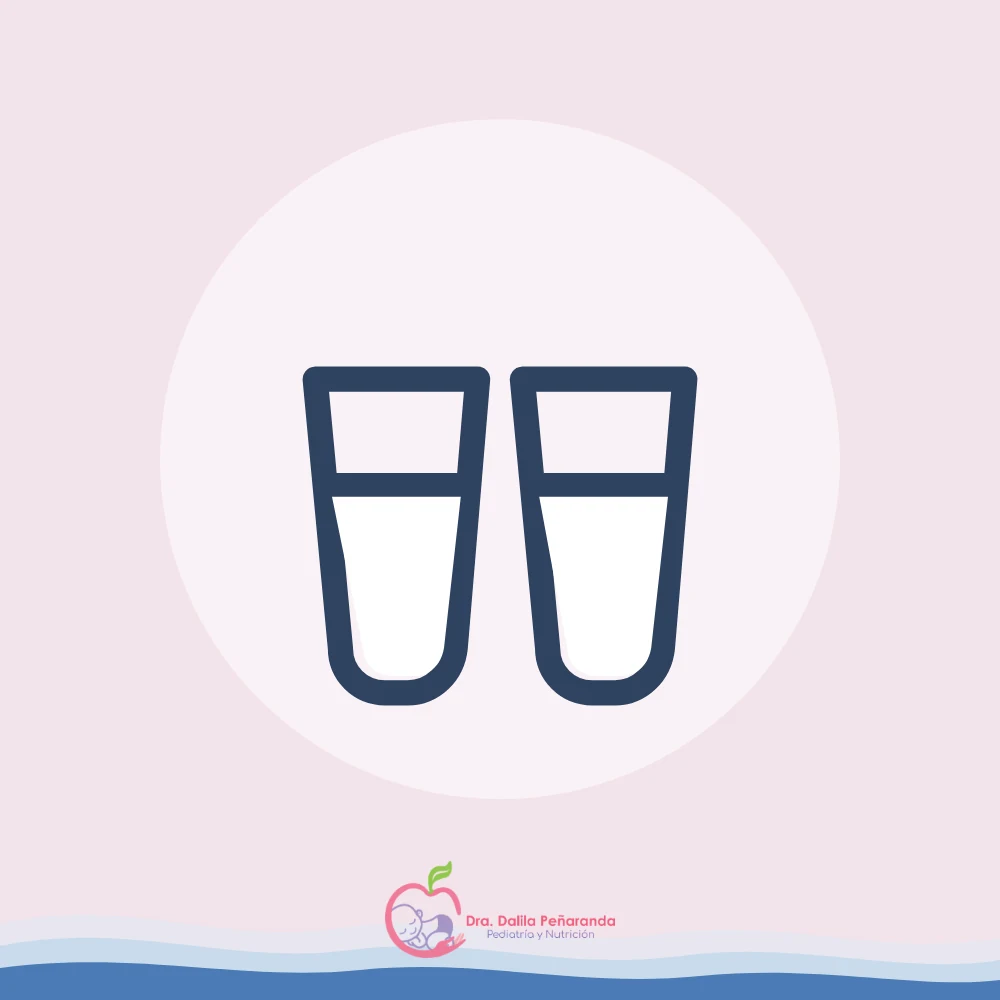
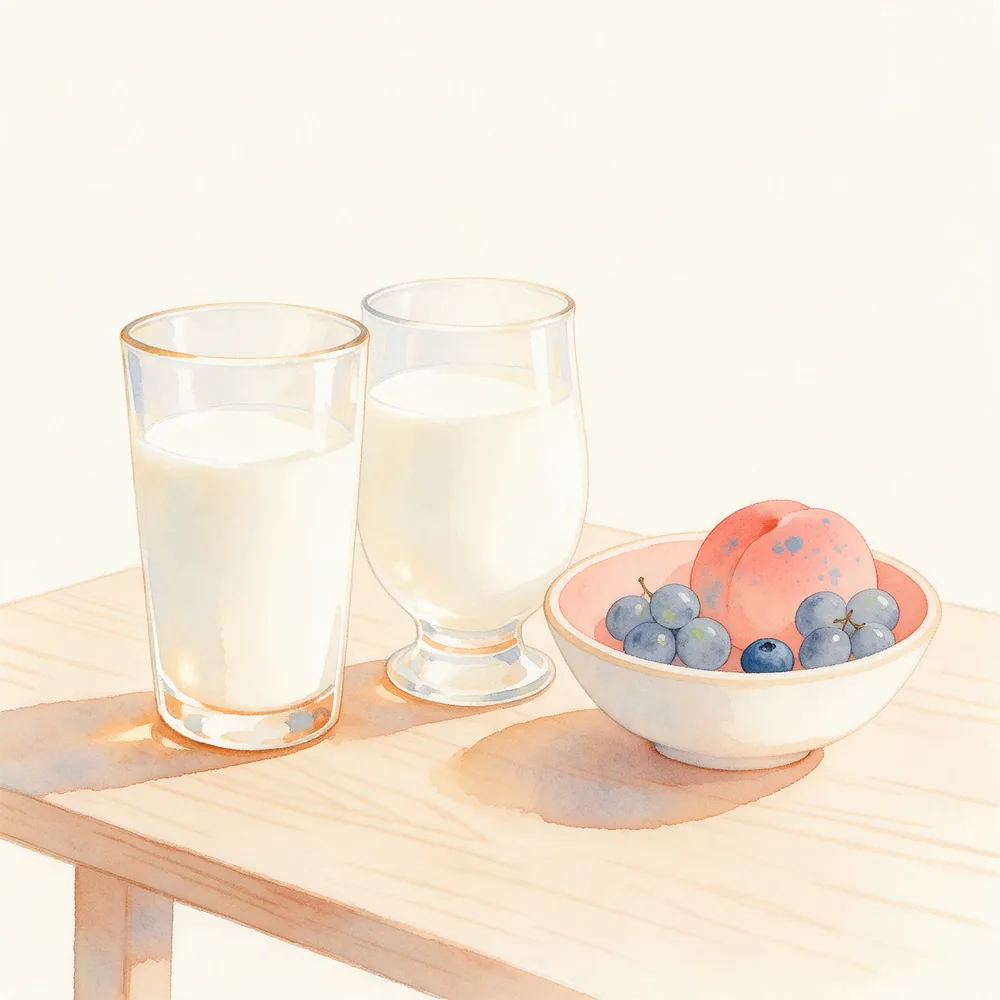
Cambia las portadas de los artículos por ilustraciones en acuarela
Las portadas dibujadas a línea quedaban demasiado básicas al lado de las
piezas de la doctora. Las ocho se rehicieron como acuarelas: la jeringa de
suero sobre las toallas, el niño apretándose la nariz, una madre calmando a
un bebé que llora, el niño dormido con la luna en la ventana, el paño tibio
sobre el oído de noche, el inhalador con su inhalocámara, el niño solo en las
escaleras del colegio y los dos vasos de leche.

Quedan en el mismo idioma del sitio: azul polvo, crema, coral y verde salvia,
con la textura del papel a la vista, que es de donde salen también la ballena
y la tortuga de las franjas.

Pesan 365 KB las ocho, a 1000x1000. Los textos alternativos ahora describen la
acuarela y no el icono anterior. El generador de SVG se retira y en su lugar
queda herramientas/portadas.md, con el modelo y los prompts por si hay que
rehacer alguna.

Claude-Session: https://claude.ai/code/session_01FHjbgYbvwyauAhAEVwTY6z

diff --git a/docs/blog.html b/docs/blog.html
@@ -329,7 +329,7 @@
         </div>
       </article>
       <article class="articulo reveal" data-cat="salud">
-        <img src="assets/img/posts/portada-lavado-nasal.webp" alt="Ilustración de una jeringa de suero fisiológico con gotas" width="1000" height="1000" loading="lazy">
+        <img src="assets/img/posts/portada-lavado-nasal.webp" alt="Ilustración en acuarela de una jeringa y un frasco de suero fisiológico sobre toallas dobladas" width="1000" height="1000" loading="lazy">
         <div class="articulo__cuerpo">
           <span class="chip chip--rosa">salud</span>
           <h3>Lavado nasal sin lágrimas</h3>
@@ -339,7 +339,7 @@
         </div>
       </article>
       <article class="articulo reveal" data-delay="1" data-cat="salud">
-        <img src="assets/img/posts/portada-sangrado-nariz.webp" alt="Ilustración de una gota de sangre junto a un cronómetro" width="1000" height="1000" loading="lazy">
+        <img src="assets/img/posts/portada-sangrado-nariz.webp" alt="Ilustración en acuarela de un niño sentado, inclinado hacia adelante, apretándose la nariz con dos dedos" width="1000" height="1000" loading="lazy">
         <div class="articulo__cuerpo">
           <span class="chip chip--rosa">salud</span>
           <h3>Si le sangra la nariz, esto no</h3>
@@ -349,7 +349,7 @@
         </div>
       </article>
       <article class="articulo reveal" data-delay="2" data-cat="salud">
-        <img src="assets/img/posts/portada-espasmo-sollozo.webp" alt="Ilustración de un corazón con la línea del pulso que se interrumpe y vuelve" width="1000" height="1000" loading="lazy">
+        <img src="assets/img/posts/portada-espasmo-sollozo.webp" alt="Ilustración en acuarela de una madre calmando en brazos a un bebé que llora" width="1000" height="1000" loading="lazy">
         <div class="articulo__cuerpo">
           <span class="chip chip--rosa">salud</span>
           <h3>Se puso morado al llorar</h3>
@@ -369,7 +369,7 @@
         </div>
       </article>
       <article class="articulo reveal" data-delay="1" data-cat="crecimiento">
-        <img src="assets/img/posts/portada-ronquido.webp" alt="Ilustración de una almohada con el sonido del ronquido" width="1000" height="1000" loading="lazy">
+        <img src="assets/img/posts/portada-ronquido.webp" alt="Ilustración en acuarela de un niño dormido en su cama, con la luna en la ventana" width="1000" height="1000" loading="lazy">
         <div class="articulo__cuerpo">
           <span class="chip chip--azul">crecimiento</span>
           <h3>El ronquido nunca es normal</h3>
@@ -409,7 +409,7 @@
         </div>
       </article>
       <article class="articulo reveal" data-delay="2" data-cat="nutricion">
-        <img src="assets/img/posts/portada-leche-dos-anios.webp" alt="Ilustración de dos vasos de leche" width="1000" height="1000" loading="lazy">
+        <img src="assets/img/posts/portada-leche-dos-anios.webp" alt="Ilustración en acuarela de dos vasos de leche junto a un bol de fruta" width="1000" height="1000" loading="lazy">
         <div class="articulo__cuerpo">
           <span class="chip chip--verde">nutrición</span>
           <h3>Después de los dos años, ¿qué leche?</h3>
@@ -439,7 +439,7 @@
         </div>
       </article>
       <article class="articulo reveal" data-delay="2" data-cat="salud">
-        <img src="assets/img/posts/portada-dolor-de-oido.webp" alt="Ilustración de un oído junto a una luna" width="1000" height="1000" loading="lazy">
+        <img src="assets/img/posts/portada-dolor-de-oido.webp" alt="Ilustración en acuarela de un niño en la cama de noche con un paño tibio sobre el oído" width="1000" height="1000" loading="lazy">
         <div class="articulo__cuerpo">
           <span class="chip chip--rosa">salud</span>
           <h3>Dolor de oído a medianoche</h3>
@@ -489,7 +489,7 @@
         </div>
       </article>
       <article class="articulo reveal" data-delay="1" data-cat="salud">
-        <img src="assets/img/posts/portada-inhalador.webp" alt="Ilustración de un inhalador con su inhalocámara y mascarilla" width="1000" height="1000" loading="lazy">
+        <img src="assets/img/posts/portada-inhalador.webp" alt="Ilustración en acuarela de un inhalador con su inhalocámara y mascarilla" width="1000" height="1000" loading="lazy">
         <div class="articulo__cuerpo">
           <span class="chip chip--rosa">salud</span>
           <h3>El inhalador: la técnica correcta</h3>
@@ -499,7 +499,7 @@
         </div>
       </article>
       <article class="articulo reveal" data-delay="2" data-cat="crecimiento">
-        <img src="assets/img/posts/portada-bullying.webp" alt="Ilustración de dos globos de diálogo, uno de ellos vacío" width="1000" height="1000" loading="lazy">
+        <img src="assets/img/posts/portada-bullying.webp" alt="Ilustración en acuarela de un niño sentado solo en las escaleras del colegio mientras otros juegan al fondo" width="1000" height="1000" loading="lazy">
         <div class="articulo__cuerpo">
           <span class="chip chip--azul">crecimiento</span>
           <h3>Bullying: las señales que no te cuenta</h3>

diff --git a/docs/blog-sangrado-nariz.html b/docs/blog-sangrado-nariz.html
@@ -17,7 +17,7 @@
 <meta property="og:image" content="https://helgarpalmieri55.github.io/Paginaweb-DraDalila/assets/img/posts/portada-sangrado-nariz.webp">
 <meta property="og:image:width" content="1000">
 <meta property="og:image:height" content="1000">
-<meta property="og:image:alt" content="Ilustración de una gota de sangre junto a un cronómetro">
+<meta property="og:image:alt" content="Ilustración en acuarela de un niño sentado, inclinado hacia adelante, apretándose la nariz con dos dedos">
 <meta property="article:published_time" content="2026-09-17">
 <meta property="article:modified_time" content="2026-09-17">
 <meta property="article:author" content="Dra. Dalila Peñaranda">
@@ -278,7 +278,7 @@
     <hr>
 
     <figure>
-      <img src="assets/img/posts/portada-sangrado-nariz.webp" alt="Ilustración de una gota de sangre junto a un cronómetro" width="1000" height="1000" loading="lazy">
+      <img src="assets/img/posts/portada-sangrado-nariz.webp" alt="Ilustración en acuarela de un niño sentado, inclinado hacia adelante, apretándose la nariz con dos dedos" width="1000" height="1000" loading="lazy">
       <figcaption>Presión en la parte blanda y el reloj a la vista: tres minutos sin soltar.</figcaption>
     </figure>
 
@@ -303,7 +303,7 @@
     <p class="bajada reveal">Otros temas que suelen venir en la misma consulta.</p>
     <div class="rejilla rejilla--3 rejilla--piezas">
       <article class="articulo reveal">
-        <img src="assets/img/posts/portada-lavado-nasal.webp" alt="Ilustración de una jeringa de suero fisiológico con gotas" width="1000" height="1000" loading="lazy">
+        <img src="assets/img/posts/portada-lavado-nasal.webp" alt="Ilustración en acuarela de una jeringa y un frasco de suero fisiológico sobre toallas dobladas" width="1000" height="1000" loading="lazy">
         <div class="articulo__cuerpo"><span class="chip chip--rosa">salud</span><h3>Lavado nasal sin lágrimas</h3><p>Sonarse antes, cabeza abajo y boca abierta.</p><p style="margin-top:12px"><a href="blog-lavado-nasal.html">Leer más →</a></p></div>
       </article>
       <article class="articulo reveal" data-delay="1">
@@ -311,7 +311,7 @@
         <div class="articulo__cuerpo"><span class="chip chip--azul">crecimiento</span><h3>El tamizaje auditivo: la primera prueba</h3><p>Qué mide y por qué a veces hay que repetirla.</p><p style="margin-top:12px"><a href="blog-tamizaje-auditivo.html">Leer más →</a></p></div>
       </article>
       <article class="articulo reveal" data-delay="2">
-        <img src="assets/img/posts/portada-ronquido.webp" alt="Ilustración de una almohada con el sonido del ronquido" width="1000" height="1000" loading="lazy">
+        <img src="assets/img/posts/portada-ronquido.webp" alt="Ilustración en acuarela de un niño dormido en su cama, con la luna en la ventana" width="1000" height="1000" loading="lazy">
         <div class="articulo__cuerpo"><span class="chip chip--azul">crecimiento</span><h3>El ronquido nunca es normal</h3><p>Sueño, concentración, crecimiento y hasta los dientes.</p><p style="margin-top:12px"><a href="blog-ronquido.html">Leer más →</a></p></div>
       </article>
     </div>

diff --git a/docs/blog-lavado-nasal.html b/docs/blog-lavado-nasal.html
@@ -17,7 +17,7 @@
 <meta property="og:image" content="https://helgarpalmieri55.github.io/Paginaweb-DraDalila/assets/img/posts/portada-lavado-nasal.webp">
 <meta property="og:image:width" content="1000">
 <meta property="og:image:height" content="1000">
-<meta property="og:image:alt" content="Ilustración de una jeringa de suero fisiológico con gotas">
+<meta property="og:image:alt" content="Ilustración en acuarela de una jeringa y un frasco de suero fisiológico sobre toallas dobladas">
 <meta property="article:published_time" content="2026-09-17">
 <meta property="article:modified_time" content="2026-09-17">
 <meta property="article:author" content="Dra. Dalila Peñaranda">
@@ -287,7 +287,7 @@
     <hr>
 
     <figure>
-      <img src="assets/img/posts/portada-lavado-nasal.webp" alt="Ilustración de una jeringa de suero fisiológico con gotas" width="1000" height="1000" loading="lazy">
+      <img src="assets/img/posts/portada-lavado-nasal.webp" alt="Ilustración en acuarela de una jeringa y un frasco de suero fisiológico sobre toallas dobladas" width="1000" height="1000" loading="lazy">
       <figcaption>El objetivo no es destapar de un empujón: es bajar el moco y diluirlo.</figcaption>
     </figure>
 
@@ -312,7 +312,7 @@
     <p class="bajada reveal">Otros temas que suelen venir en la misma consulta.</p>
     <div class="rejilla rejilla--3 rejilla--piezas">
       <article class="articulo reveal">
-        <img src="assets/img/posts/portada-sangrado-nariz.webp" alt="Ilustración de una gota de sangre junto a un cronómetro" width="1000" height="1000" loading="lazy">
+        <img src="assets/img/posts/portada-sangrado-nariz.webp" alt="Ilustración en acuarela de un niño sentado, inclinado hacia adelante, apretándose la nariz con dos dedos" width="1000" height="1000" loading="lazy">
         <div class="articulo__cuerpo"><span class="chip chip--rosa">salud</span><h3>Si le sangra la nariz, esto no</h3><p>Dos dedos, tres minutos y se detiene.</p><p style="margin-top:12px"><a href="blog-sangrado-nariz.html">Leer más →</a></p></div>
       </article>
       <article class="articulo reveal" data-delay="1">
@@ -320,7 +320,7 @@
         <div class="articulo__cuerpo"><span class="chip chip--azul">crecimiento</span><h3>El tamizaje auditivo: la primera prueba</h3><p>Qué mide y por qué a veces hay que repetirla.</p><p style="margin-top:12px"><a href="blog-tamizaje-auditivo.html">Leer más →</a></p></div>
       </article>
       <article class="articulo reveal" data-delay="2">
-        <img src="assets/img/posts/portada-ronquido.webp" alt="Ilustración de una almohada con el sonido del ronquido" width="1000" height="1000" loading="lazy">
+        <img src="assets/img/posts/portada-ronquido.webp" alt="Ilustración en acuarela de un niño dormido en su cama, con la luna en la ventana" width="1000" height="1000" loading="lazy">
         <div class="articulo__cuerpo"><span class="chip chip--azul">crecimiento</span><h3>El ronquido nunca es normal</h3><p>Sueño, concentración, crecimiento y hasta los dientes.</p><p style="margin-top:12px"><a href="blog-ronquido.html">Leer más →</a></p></div>
       </article>
     </div>

diff --git a/docs/blog-ronquido.html b/docs/blog-ronquido.html
@@ -17,7 +17,7 @@
 <meta property="og:image" content="https://helgarpalmieri55.github.io/Paginaweb-DraDalila/assets/img/posts/portada-ronquido.webp">
 <meta property="og:image:width" content="1000">
 <meta property="og:image:height" content="1000">
-<meta property="og:image:alt" content="Ilustración de una almohada con el sonido del ronquido">
+<meta property="og:image:alt" content="Ilustración en acuarela de un niño dormido en su cama, con la luna en la ventana">
 <meta property="article:published_time" content="2026-09-17">
 <meta property="article:modified_time" content="2026-09-17">
 <meta property="article:author" content="Dra. Dalila Peñaranda">
@@ -278,7 +278,7 @@
 
 
     <figure>
-      <img src="assets/img/posts/portada-ronquido.webp" alt="Ilustración de una almohada con el sonido del ronquido" width="1000" height="1000" loading="lazy">
+      <img src="assets/img/posts/portada-ronquido.webp" alt="Ilustración en acuarela de un niño dormido en su cama, con la luna en la ventana" width="1000" height="1000" loading="lazy">
       <figcaption>Duerme las horas, pero no descansa. Eso se paga durante el día.</figcaption>
     </figure>
 
@@ -309,11 +309,11 @@
         <div class="articulo__cuerpo"><span class="chip chip--azul">crecimiento</span><h3>El tamizaje auditivo: la primera prueba</h3><p>Qué mide y por qué a veces hay que repetirla.</p><p style="margin-top:12px"><a href="blog-tamizaje-auditivo.html">Leer más →</a></p></div>
       </article>
       <article class="articulo reveal" data-delay="1">
-        <img src="assets/img/posts/portada-lavado-nasal.webp" alt="Ilustración de una jeringa de suero fisiológico con gotas" width="1000" height="1000" loading="lazy">
+        <img src="assets/img/posts/portada-lavado-nasal.webp" alt="Ilustración en acuarela de una jeringa y un frasco de suero fisiológico sobre toallas dobladas" width="1000" height="1000" loading="lazy">
         <div class="articulo__cuerpo"><span class="chip chip--rosa">salud</span><h3>Lavado nasal sin lágrimas</h3><p>Sonarse antes, cabeza abajo y boca abierta.</p><p style="margin-top:12px"><a href="blog-lavado-nasal.html">Leer más →</a></p></div>
       </article>
       <article class="articulo reveal" data-delay="2">
-        <img src="assets/img/posts/portada-espasmo-sollozo.webp" alt="Ilustración de un corazón con la línea del pulso que se interrumpe y vuelve" width="1000" height="1000" loading="lazy">
+        <img src="assets/img/posts/portada-espasmo-sollozo.webp" alt="Ilustración en acuarela de una madre calmando en brazos a un bebé que llora" width="1000" height="1000" loading="lazy">
         <div class="articulo__cuerpo"><span class="chip chip--rosa">salud</span><h3>Se puso morado al llorar</h3><p>El espasmo del sollozo asusta, pero es benigno.</p><p style="margin-top:12px"><a href="blog-espasmo-sollozo.html">Leer más →</a></p></div>
       </article>
     </div>

diff --git a/docs/blog-espasmo-sollozo.html b/docs/blog-espasmo-sollozo.html
@@ -17,7 +17,7 @@
 <meta property="og:image" content="https://helgarpalmieri55.github.io/Paginaweb-DraDalila/assets/img/posts/portada-espasmo-sollozo.webp">
 <meta property="og:image:width" content="1000">
 <meta property="og:image:height" content="1000">
-<meta property="og:image:alt" content="Ilustración de un corazón con la línea del pulso que se interrumpe y vuelve">
+<meta property="og:image:alt" content="Ilustración en acuarela de una madre calmando en brazos a un bebé que llora">
 <meta property="article:published_time" content="2026-09-17">
 <meta property="article:modified_time" content="2026-09-17">
 <meta property="article:author" content="Dra. Dalila Peñaranda">
@@ -280,7 +280,7 @@
     <hr>
 
     <figure>
-      <img src="assets/img/posts/portada-espasmo-sollozo.webp" alt="Ilustración de un corazón con la línea del pulso que se interrumpe y vuelve" width="1000" height="1000" loading="lazy">
+      <img src="assets/img/posts/portada-espasmo-sollozo.webp" alt="Ilustración en acuarela de una madre calmando en brazos a un bebé que llora" width="1000" height="1000" loading="lazy">
       <figcaption>Se corta un momento y vuelve. Por eso asusta tanto, y por eso es benigno.</figcaption>
     </figure>
 
@@ -305,11 +305,11 @@
     <p class="bajada reveal">Otros temas que suelen venir en la misma consulta.</p>
     <div class="rejilla rejilla--3 rejilla--piezas">
       <article class="articulo reveal">
-        <img src="assets/img/posts/portada-ronquido.webp" alt="Ilustración de una almohada con el sonido del ronquido" width="1000" height="1000" loading="lazy">
+        <img src="assets/img/posts/portada-ronquido.webp" alt="Ilustración en acuarela de un niño dormido en su cama, con la luna en la ventana" width="1000" height="1000" loading="lazy">
         <div class="articulo__cuerpo"><span class="chip chip--azul">crecimiento</span><h3>El ronquido nunca es normal</h3><p>Sueño, concentración, crecimiento y hasta los dientes.</p><p style="margin-top:12px"><a href="blog-ronquido.html">Leer más →</a></p></div>
       </article>
       <article class="articulo reveal" data-delay="1">
-        <img src="assets/img/posts/portada-sangrado-nariz.webp" alt="Ilustración de una gota de sangre junto a un cronómetro" width="1000" height="1000" loading="lazy">
+        <img src="assets/img/posts/portada-sangrado-nariz.webp" alt="Ilustración en acuarela de un niño sentado, inclinado hacia adelante, apretándose la nariz con dos dedos" width="1000" height="1000" loading="lazy">
         <div class="articulo__cuerpo"><span class="chip chip--rosa">salud</span><h3>Si le sangra la nariz, esto no</h3><p>Dos dedos, tres minutos y se detiene.</p><p style="margin-top:12px"><a href="blog-sangrado-nariz.html">Leer más →</a></p></div>
       </article>
       <article class="articulo reveal" data-delay="2">

diff --git a/docs/blog-mosquitos.html b/docs/blog-mosquitos.html
@@ -306,7 +306,7 @@
     <p class="bajada reveal">Otros temas que suelen venir en la misma consulta.</p>
     <div class="rejilla rejilla--3 rejilla--piezas">
       <article class="articulo reveal">
-        <img src="assets/img/posts/portada-inhalador.webp" alt="Ilustración de un inhalador con su inhalocámara y mascarilla" width="1000" height="1000" loading="lazy">
+        <img src="assets/img/posts/portada-inhalador.webp" alt="Ilustración en acuarela de un inhalador con su inhalocámara y mascarilla" width="1000" height="1000" loading="lazy">
         <div class="articulo__cuerpo"><span class="chip chip--rosa">salud</span><h3>El inhalador: la técnica correcta</h3><p>Inhalocámara siempre, sello correcto y diez segundos contados.</p><p style="margin-top:12px"><a href="blog-inhalador.html">Leer más →</a></p></div>
       </article>
       <article class="articulo reveal" data-delay="1">
@@ -314,7 +314,7 @@
         <div class="articulo__cuerpo"><span class="chip chip--rosa">salud</span><h3>El cólico cambió de nombre</h3><p>Ya no se llama cólico, y el cambio no es cosmético.</p><p style="margin-top:12px"><a href="blog-distress-lactante.html">Leer más →</a></p></div>
       </article>
       <article class="articulo reveal" data-delay="2">
-        <img src="assets/img/posts/portada-bullying.webp" alt="Ilustración de dos globos de diálogo, uno de ellos vacío" width="1000" height="1000" loading="lazy">
+        <img src="assets/img/posts/portada-bullying.webp" alt="Ilustración en acuarela de un niño sentado solo en las escaleras del colegio mientras otros juegan al fondo" width="1000" height="1000" loading="lazy">
         <div class="articulo__cuerpo"><span class="chip chip--azul">crecimiento</span><h3>Bullying: las señales que no te cuenta</h3><p>Se esconde en el silencio, pero deja rastros que sí se ven.</p><p style="margin-top:12px"><a href="blog-bullying.html">Leer más →</a></p></div>
       </article>
     </div>

diff --git a/docs/blog-lactancia-caries.html b/docs/blog-lactancia-caries.html
@@ -305,7 +305,7 @@
     <p class="bajada reveal">Otros temas que suelen venir en la misma consulta.</p>
     <div class="rejilla rejilla--3 rejilla--piezas">
       <article class="articulo reveal">
-        <img src="assets/img/posts/portada-leche-dos-anios.webp" alt="Ilustración de dos vasos de leche" width="1000" height="1000" loading="lazy">
+        <img src="assets/img/posts/portada-leche-dos-anios.webp" alt="Ilustración en acuarela de dos vasos de leche junto a un bol de fruta" width="1000" height="1000" loading="lazy">
         <div class="articulo__cuerpo"><span class="chip chip--verde">nutrición</span><h3>Después de los dos años, ¿qué leche?</h3><p>Dos tazas de ocho onzas, y por qué no más.</p><p style="margin-top:12px"><a href="blog-leche-dos-anios.html">Leer más →</a></p></div>
       </article>
       <article class="articulo reveal" data-delay="1">
@@ -313,7 +313,7 @@
         <div class="articulo__cuerpo"><span class="chip chip--verde">nutrición</span><h3>La malnutrición que no se ve</h3><p>Se llama hambre oculta y solo aparece en un laboratorio.</p><p style="margin-top:12px"><a href="blog-hambre-oculta.html">Leer más →</a></p></div>
       </article>
       <article class="articulo reveal" data-delay="2">
-        <img src="assets/img/posts/portada-dolor-de-oido.webp" alt="Ilustración de un oído junto a una luna" width="1000" height="1000" loading="lazy">
+        <img src="assets/img/posts/portada-dolor-de-oido.webp" alt="Ilustración en acuarela de un niño en la cama de noche con un paño tibio sobre el oído" width="1000" height="1000" loading="lazy">
         <div class="articulo__cuerpo"><span class="chip chip--rosa">salud</span><h3>Dolor de oído a medianoche</h3><p>Nada de gotas, orégano ni leche materna. Lo que sí ayuda.</p><p style="margin-top:12px"><a href="blog-dolor-de-oido.html">Leer más →</a></p></div>
       </article>
     </div>

diff --git a/docs/blog-bullying.html b/docs/blog-bullying.html
@@ -17,7 +17,7 @@
 <meta property="og:image" content="https://helgarpalmieri55.github.io/Paginaweb-DraDalila/assets/img/posts/portada-bullying.webp">
 <meta property="og:image:width" content="1000">
 <meta property="og:image:height" content="1000">
-<meta property="og:image:alt" content="Ilustración de dos globos de diálogo, uno de ellos vacío">
+<meta property="og:image:alt" content="Ilustración en acuarela de un niño sentado solo en las escaleras del colegio mientras otros juegan al fondo">
 <meta property="article:published_time" content="2026-09-17">
 <meta property="article:modified_time" content="2026-09-17">
 <meta property="article:author" content="Dra. Dalila Peñaranda">
@@ -282,7 +282,7 @@
 
 
     <figure>
-      <img src="assets/img/posts/portada-bullying.webp" alt="Ilustración de dos globos de diálogo, uno de ellos vacío" width="1000" height="1000" loading="lazy">
+      <img src="assets/img/posts/portada-bullying.webp" alt="Ilustración en acuarela de un niño sentado solo en las escaleras del colegio mientras otros juegan al fondo" width="1000" height="1000" loading="lazy">
       <figcaption>Lo que no se dice también deja rastro. Ahí empieza la sospecha.</figcaption>
     </figure>
 

diff --git a/docs/blog-dolor-de-oido.html b/docs/blog-dolor-de-oido.html
@@ -17,7 +17,7 @@
 <meta property="og:image" content="https://helgarpalmieri55.github.io/Paginaweb-DraDalila/assets/img/posts/portada-dolor-de-oido.webp">
 <meta property="og:image:width" content="1000">
 <meta property="og:image:height" content="1000">
-<meta property="og:image:alt" content="Ilustración de un oído junto a una luna">
+<meta property="og:image:alt" content="Ilustración en acuarela de un niño en la cama de noche con un paño tibio sobre el oído">
 <meta property="article:published_time" content="2026-09-17">
 <meta property="article:modified_time" content="2026-09-17">
 <meta property="article:author" content="Dra. Dalila Peñaranda">
@@ -284,7 +284,7 @@
     <hr>
 
     <figure>
-      <img src="assets/img/posts/portada-dolor-de-oido.webp" alt="Ilustración de un oído junto a una luna" width="1000" height="1000" loading="lazy">
+      <img src="assets/img/posts/portada-dolor-de-oido.webp" alt="Ilustración en acuarela de un niño en la cama de noche con un paño tibio sobre el oído" width="1000" height="1000" loading="lazy">
       <figcaption>Casi siempre aparece de noche, y casi nunca hay cómo mirar el oído en casa.</figcaption>
     </figure>
 

diff --git a/docs/blog-inhalador.html b/docs/blog-inhalador.html
@@ -17,7 +17,7 @@
 <meta property="og:image" content="https://helgarpalmieri55.github.io/Paginaweb-DraDalila/assets/img/posts/portada-inhalador.webp">
 <meta property="og:image:width" content="1000">
 <meta property="og:image:height" content="1000">
-<meta property="og:image:alt" content="Ilustración de un inhalador con su inhalocámara y mascarilla">
+<meta property="og:image:alt" content="Ilustración en acuarela de un inhalador con su inhalocámara y mascarilla">
 <meta property="article:published_time" content="2026-09-17">
 <meta property="article:modified_time" content="2026-09-17">
 <meta property="article:author" content="Dra. Dalila Peñaranda">
@@ -291,7 +291,7 @@
     <hr>
 
     <figure>
-      <img src="assets/img/posts/portada-inhalador.webp" alt="Ilustración de un inhalador con su inhalocámara y mascarilla" width="1000" height="1000" loading="lazy">
+      <img src="assets/img/posts/portada-inhalador.webp" alt="Ilustración en acuarela de un inhalador con su inhalocámara y mascarilla" width="1000" height="1000" loading="lazy">
       <figcaption>El inhalador solo no basta: la inhalocámara es parte del tratamiento.</figcaption>
     </figure>
 

diff --git a/docs/blog-leche-dos-anios.html b/docs/blog-leche-dos-anios.html
@@ -17,7 +17,7 @@
 <meta property="og:image" content="https://helgarpalmieri55.github.io/Paginaweb-DraDalila/assets/img/posts/portada-leche-dos-anios.webp">
 <meta property="og:image:width" content="1000">
 <meta property="og:image:height" content="1000">
-<meta property="og:image:alt" content="Ilustración de dos vasos de leche">
+<meta property="og:image:alt" content="Ilustración en acuarela de dos vasos de leche junto a un bol de fruta">
 <meta property="article:published_time" content="2026-09-17">
 <meta property="article:modified_time" content="2026-09-17">
 <meta property="article:author" content="Dra. Dalila Peñaranda">
@@ -278,7 +278,7 @@
 
 
     <figure>
-      <img src="assets/img/posts/portada-leche-dos-anios.webp" alt="Ilustración de dos vasos de leche" width="1000" height="1000" loading="lazy">
+      <img src="assets/img/posts/portada-leche-dos-anios.webp" alt="Ilustración en acuarela de dos vasos de leche junto a un bol de fruta" width="1000" height="1000" loading="lazy">
       <figcaption>Dos tazas de ocho onzas al día. Más que eso desplaza la comida.</figcaption>
     </figure>
 

diff --git a/docs/blog-distress-lactante.html b/docs/blog-distress-lactante.html
@@ -305,7 +305,7 @@
         <div class="articulo__cuerpo"><span class="chip chip--verde">nutrición</span><h3>Tres mitos que oigo cada semana</h3><p>Los jugos, el huevo antes del año y el «come poquito».</p><p style="margin-top:12px"><a href="blog-tres-mitos.html">Leer más →</a></p></div>
       </article>
       <article class="articulo reveal" data-delay="1">
-        <img src="assets/img/posts/portada-inhalador.webp" alt="Ilustración de un inhalador con su inhalocámara y mascarilla" width="1000" height="1000" loading="lazy">
+        <img src="assets/img/posts/portada-inhalador.webp" alt="Ilustración en acuarela de un inhalador con su inhalocámara y mascarilla" width="1000" height="1000" loading="lazy">
         <div class="articulo__cuerpo"><span class="chip chip--rosa">salud</span><h3>El inhalador: la técnica correcta</h3><p>Inhalocámara siempre, sello correcto y diez segundos contados.</p><p style="margin-top:12px"><a href="blog-inhalador.html">Leer más →</a></p></div>
       </article>
       <article class="articulo reveal" data-delay="2">
